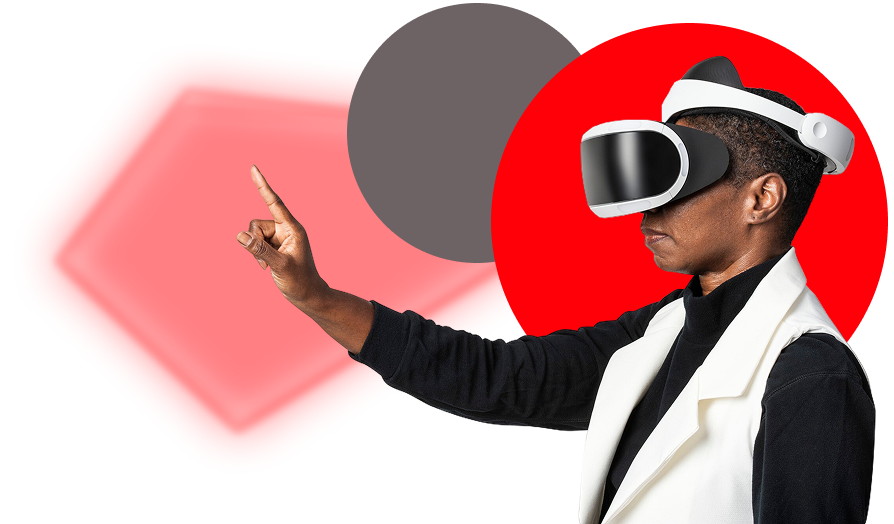
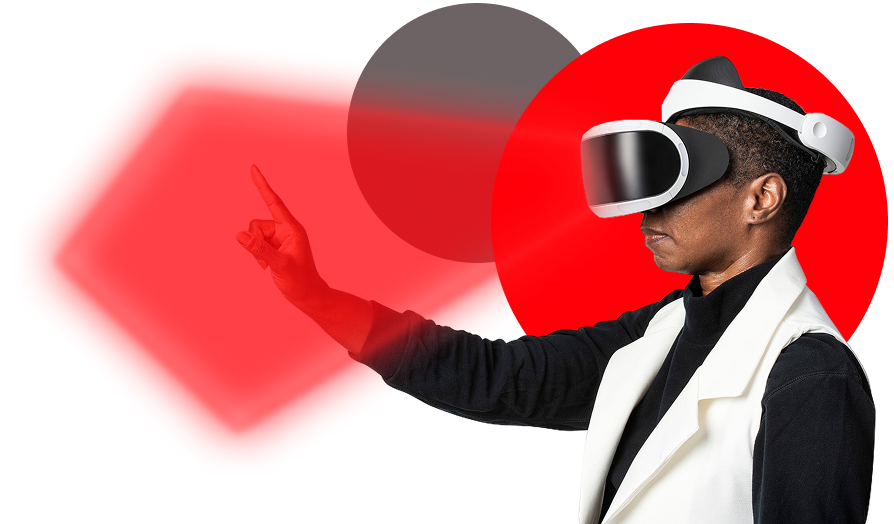
feat: update ProductDetail component layout and improve specifications section styling

Changed region(s): [[0.0302, 0.1221, 0.604, 0.855], [0.6342, 0.2443, 0.6946, 0.4275]]

diff --git a/components/ProductDetails.tsx b/components/ProductDetails.tsx
@@ -202,65 +202,116 @@ export default function ProductDetail({ slug }: ProductDetailProps) {
           </div>
         </div>
         {/* Specifications Section */}
-        <div className="mt-16 grid lg:grid-cols-[2fr_1fr] gap-12">
+        <div className="mt-16 grid lg:grid-cols-[2fr_1fr] gap-24">
           {/* Specifications */}
           <div>
-            <h2 className="text-2xl font-bold text-gray-900 mb-8 pb-2 border-b-2 border-red-1000">
+            <h2 className="text-2xl font-bold text-gray-900 mb-8 pb-2 border-b-2 border-red-600">
               SPECIFICATIONS
             </h2>
 
-            <div className="grid grid-cols-2 gap-6">
+            <div className="grid grid-cols-2 gap-16">
               {/* Paper Thickness */}
-              <div className="mb-10">
-                <h3 className="text-lg font-semibold text-gray-900 mb-4">
-                  PAPER THICKNESS
-                </h3>
-                <div className="grid grid-cols-2 gap-4">
-                  {[
-                    {
-                      id: "thick-300gsm",
-                      label: "Thick 300gsm",
-                      image: "/placeholder.svg?height=100&width=100",
-                    },
-                    {
-                      id: "super-thick-600gsm",
-                      label: "Super Thick 600gsm",
-                      image: "/placeholder.svg?height=100&width=100",
-                    },
-                  ].map((option) => (
-                    <div key={option.id} className="flex flex-col items-center">
+              <div>
+                <div className="mb-10">
+                  <h3 className="text-lg font-semibold text-gray-900 mb-3">
+                    PAPER THICKNESS
+                  </h3>
+                  <div className="grid grid-cols-2 gap-6">
+                    {[
+                      {
+                        id: "thick-300gsm",
+                        label: "Thick 300gsm",
+                        image: "/placeholder.svg?height=100&width=100",
+                      },
+                      {
+                        id: "super-thick-600gsm",
+                        label: "Super Thick 600gsm",
+                        image: "/placeholder.svg?height=100&width=100",
+                      },
+                    ].map((option) => (
                       <div
-                        onClick={() =>
-                          handleSpecChange("paperThickness", option.id)
-                        }
-                        className={`aspect-square bg-gray-200 rounded-lg cursor-pointer border-2 transition-colors w-full ${
-                          selectedSpecs.paperThickness === option.id
-                            ? "border-red-600"
-                            : "border-transparent"
-                        }`}
+                        key={option.id}
+                        className="flex flex-col items-center"
                       >
-                        <Image
-                          src={option.image}
-                          alt={option.label}
-                          width={100}
-                          height={100}
-                          className="w-full h-full object-cover rounded-md"
-                        />
+                        <div
+                          onClick={() =>
+                            handleSpecChange("paperThickness", option.id)
+                          }
+                          className={`aspect-square bg-gray-200 rounded-sm cursor-pointer border-2 transition-colors w-full ${
+                            selectedSpecs.paperThickness === option.id
+                              ? "border-red-600"
+                              : "border-transparent"
+                          }`}
+                        >
+                          <Image
+                            src={option.image}
+                            alt={option.label}
+                            width={100}
+                            height={100}
+                            className="w-full h-full object-cover rounded-md"
+                          />
+                        </div>
+                        <span className="mt-2 text-xs font-medium text-gray-700 text-center">
+                          {option.label}
+                        </span>
                       </div>
-                      <span className="mt-2 text-xs font-medium text-gray-700 text-center">
-                        {option.label}
-                      </span>
-                    </div>
-                  ))}
+                    ))}
+                  </div>
+                </div>
+
+                {/* Edges */}
+                <div>
+                  <h3 className="text-lg font-semibold text-gray-900 mb-4">
+                    EDGES
+                  </h3>
+                  <div className="grid grid-cols-2 gap-4">
+                    {[
+                      {
+                        id: "square-edges",
+                        label: "Square Edges",
+                        image: "/placeholder.svg?height=100&width=100",
+                      },
+                      {
+                        id: "rounded-edges",
+                        label: "Rounded Edges",
+                        image: "/placeholder.svg?height=100&width=100",
+                      },
+                    ].map((option) => (
+                      <div
+                        key={option.id}
+                        className="flex flex-col items-center"
+                      >
+                        <div
+                          onClick={() => handleSpecChange("edges", option.id)}
+                          className={`aspect-square bg-gray-200 rounded-sm cursor-pointer hover:border-2 transition-colors w-full ${
+                            selectedSpecs.edges === option.id
+                              ? "border-red-600"
+                              : "border-transparent"
+                          }`}
+                        >
+                          <Image
+                            src={option.image}
+                            alt={option.label}
+                            width={100}
+                            height={100}
+                            className="w-full h-full object-cover rounded-md"
+                          />
+                        </div>
+                        <span className="mt-2 text-xs font-medium text-gray-700 text-center">
+                          {option.label}
+                        </span>
+                      </div>
+                    ))}
+                  </div>
                 </div>
               </div>
 
               {/* Lamination */}
               <div className="mb-10">
-                <h3 className="text-lg font-semibold text-gray-900 mb-4">
+                <h3 className="text-lg font-semibold text-gray-900 mb-3">
                   LAMINATION
                 </h3>
-                <div className="grid grid-cols-2 gap-4">
+                <div className="grid grid-cols-2 gap-6">
                   {[
                     {
                       id: "matte-lamination",
@@ -278,51 +329,8 @@ export default function ProductDetail({ slug }: ProductDetailProps) {
                         onClick={() =>
                           handleSpecChange("lamination", option.id)
                         }
-                        className={`aspect-square bg-gray-200 rounded-lg cursor-pointer border-2 transition-colors w-full ${
+                        className={`aspect-square bg-gray-200 rounded-sm cursor-pointer border-2 transition-colors w-full ${
                           selectedSpecs.lamination === option.id
-                            ? "border-red-600"
-                            : "border-transparent"
-                        }`}
-                      >
-                        <Image
-                          src={option.image}
-                          alt={option.label}
-                          width={100}
-                          height={100}
-                          className="w-full h-full object-cover rounded-md"
-                        />
-                      </div>
-                      <span className="mt-2 text-xs font-medium text-gray-700 text-center">
-                        {option.label}
-                      </span>
-                    </div>
-                  ))}
-                </div>
-              </div>
-
-              {/* Edges */}
-              <div>
-                <h3 className="text-lg font-semibold text-gray-900 mb-4">
-                  EDGES
-                </h3>
-                <div className="grid grid-cols-2 gap-4">
-                  {[
-                    {
-                      id: "square-edges",
-                      label: "Square Edges",
-                      image: "/placeholder.svg?height=100&width=100",
-                    },
-                    {
-                      id: "rounded-edges",
-                      label: "Rounded Edges",
-                      image: "/placeholder.svg?height=100&width=100",
-                    },
-                  ].map((option) => (
-                    <div key={option.id} className="flex flex-col items-center">
-                      <div
-                        onClick={() => handleSpecChange("edges", option.id)}
-                        className={`aspect-square bg-gray-200 rounded-lg cursor-pointer border-2 transition-colors w-full ${
-                          selectedSpecs.edges === option.id
                             ? "border-red-600"
                             : "border-transparent"
                         }`}
@@ -370,7 +378,7 @@ export default function ProductDetail({ slug }: ProductDetailProps) {
                   <div key={option.id} className="flex flex-col items-center">
                     <div
                       onClick={() => handleSpecChange("shipping", option.id)}
-                      className={`aspect-square bg-gray-200 rounded-lg cursor-pointer border-2 transition-colors w-20 h-20 flex items-center justify-center ${
+                      className={`aspect-square bg-gray-200 rounded-sm cursor-pointer border-2 transition-colors w-full flex items-center justify-center ${
                         selectedSpecs.shipping === option.id
                           ? "border-red-600"
                           : "border-transparent"
